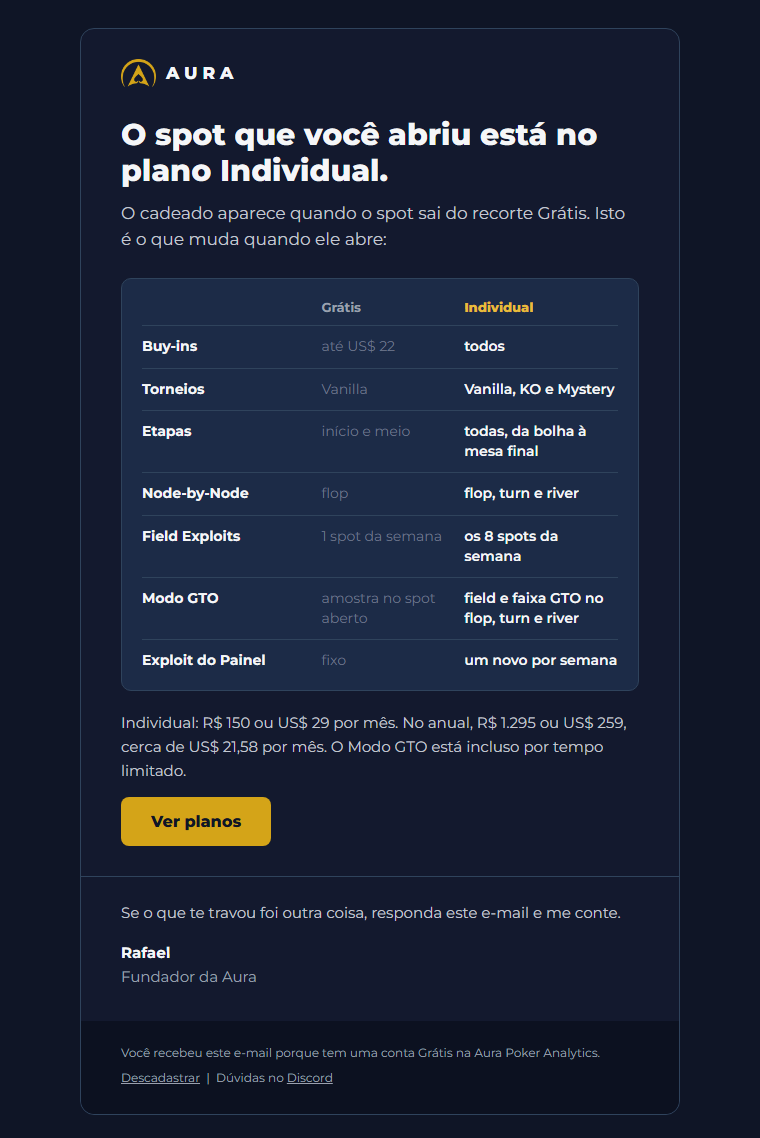
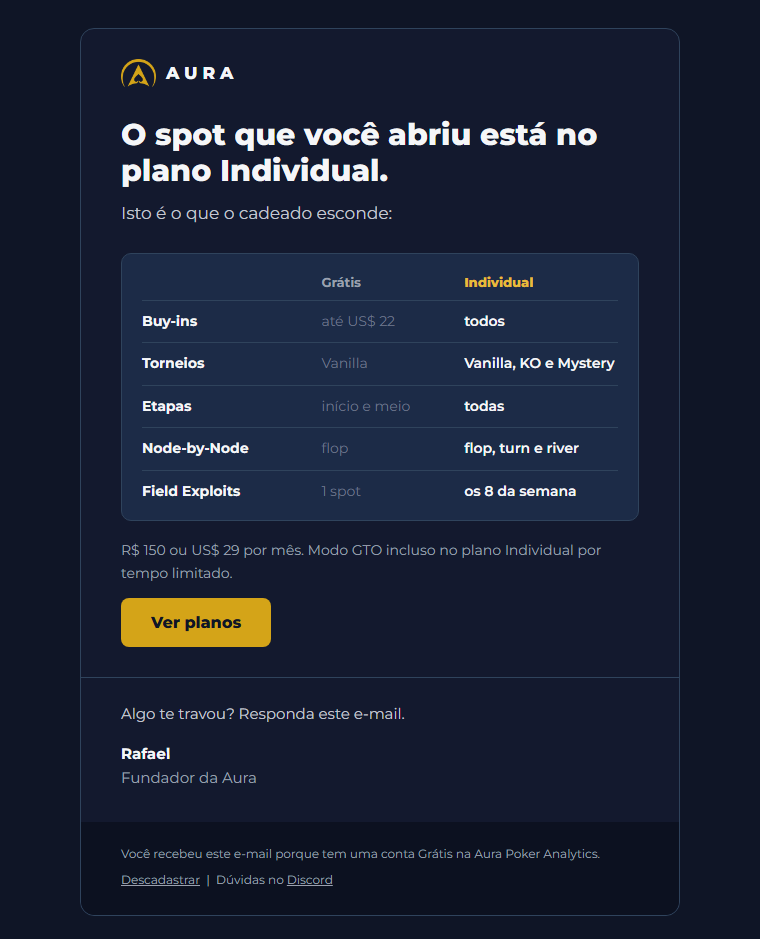
fix(followup): e-mails enxutos (título, 1 frase e a peça visual) e prints refeitos

diff --git a/content/email/followup-u1-paywall.html b/content/email/followup-u1-paywall.html
@@ -31,8 +31,8 @@
 <td style="vertical-align:middle; font-family:Montserrat,Arial,Helvetica,sans-serif; font-size:17px; font-weight:800; letter-spacing:5px; color:#F5F6F8;">AURA</td>
 </tr></table></td></tr>
 <tr><td class="px" style="padding:30px 40px 26px 40px;"><h1 class="h1" style="margin:0; font-family:Montserrat,Arial,Helvetica,sans-serif; font-size:30px; line-height:36px; font-weight:800; color:#F5F6F8;">O spot que você abriu está no plano Individual.</h1>
-<p style="margin:12px 0 0 0; font-family:Montserrat,Arial,Helvetica,sans-serif; font-size:17px; line-height:1.5; color:#C3C7D1;">O cadeado aparece quando o spot sai do recorte Grátis. Isto é o que muda quando ele abre:</p></td></tr>
-<tr><td class="px" style="padding:0 40px 20px 40px;"><table role="presentation" width="100%" cellpadding="0" cellspacing="0" border="0" style="background-color:#1C2B47; border:1px solid #2F435C; border-radius:10px;">
+<p style="margin:12px 0 0 0; font-family:Montserrat,Arial,Helvetica,sans-serif; font-size:17px; line-height:1.5; color:#C3C7D1;">Isto é o que o cadeado esconde:</p></td></tr>
+<tr><td class="px" style="padding:0 40px 18px 40px;"><table role="presentation" width="100%" cellpadding="0" cellspacing="0" border="0" style="background-color:#1C2B47; border:1px solid #2F435C; border-radius:10px;">
 <tr><td style="padding:6px 20px 8px 20px;"><table role="presentation" width="100%" cellpadding="0" cellspacing="0" border="0"><tr>
   <td style="padding:14px 0 10px 0; font-family:Montserrat,Arial,Helvetica,sans-serif; font-size:12px; color:#9AA0AE;">&nbsp;</td>
   <td width="30%" style="padding:14px 8px 10px 8px; font-family:Montserrat,Arial,Helvetica,sans-serif; font-size:13px; font-weight:700; color:#9AA0AE;">Grátis</td>
@@ -45,25 +45,19 @@
   <td valign="top" style="padding:11px 0 11px 8px; border-top:1px solid #2F435C; font-family:Montserrat,Arial,Helvetica,sans-serif; font-size:14px; font-weight:600; line-height:1.4; color:#F5F6F8;">Vanilla, KO e Mystery</td></tr><tr>
   <td valign="top" style="padding:11px 0; border-top:1px solid #2F435C; font-family:Montserrat,Arial,Helvetica,sans-serif; font-size:14px; font-weight:700; line-height:1.4; color:#F5F6F8;">Etapas</td>
   <td valign="top" style="padding:11px 8px; border-top:1px solid #2F435C; font-family:Montserrat,Arial,Helvetica,sans-serif; font-size:14px; line-height:1.4; color:#6B7489;">início e meio</td>
-  <td valign="top" style="padding:11px 0 11px 8px; border-top:1px solid #2F435C; font-family:Montserrat,Arial,Helvetica,sans-serif; font-size:14px; font-weight:600; line-height:1.4; color:#F5F6F8;">todas, da bolha à mesa final</td></tr><tr>
+  <td valign="top" style="padding:11px 0 11px 8px; border-top:1px solid #2F435C; font-family:Montserrat,Arial,Helvetica,sans-serif; font-size:14px; font-weight:600; line-height:1.4; color:#F5F6F8;">todas</td></tr><tr>
   <td valign="top" style="padding:11px 0; border-top:1px solid #2F435C; font-family:Montserrat,Arial,Helvetica,sans-serif; font-size:14px; font-weight:700; line-height:1.4; color:#F5F6F8;">Node-by-Node</td>
   <td valign="top" style="padding:11px 8px; border-top:1px solid #2F435C; font-family:Montserrat,Arial,Helvetica,sans-serif; font-size:14px; line-height:1.4; color:#6B7489;">flop</td>
   <td valign="top" style="padding:11px 0 11px 8px; border-top:1px solid #2F435C; font-family:Montserrat,Arial,Helvetica,sans-serif; font-size:14px; font-weight:600; line-height:1.4; color:#F5F6F8;">flop, turn e river</td></tr><tr>
   <td valign="top" style="padding:11px 0; border-top:1px solid #2F435C; font-family:Montserrat,Arial,Helvetica,sans-serif; font-size:14px; font-weight:700; line-height:1.4; color:#F5F6F8;">Field Exploits</td>
-  <td valign="top" style="padding:11px 8px; border-top:1px solid #2F435C; font-family:Montserrat,Arial,Helvetica,sans-serif; font-size:14px; line-height:1.4; color:#6B7489;">1 spot da semana</td>
-  <td valign="top" style="padding:11px 0 11px 8px; border-top:1px solid #2F435C; font-family:Montserrat,Arial,Helvetica,sans-serif; font-size:14px; font-weight:600; line-height:1.4; color:#F5F6F8;">os 8 spots da semana</td></tr><tr>
-  <td valign="top" style="padding:11px 0; border-top:1px solid #2F435C; font-family:Montserrat,Arial,Helvetica,sans-serif; font-size:14px; font-weight:700; line-height:1.4; color:#F5F6F8;">Modo GTO</td>
-  <td valign="top" style="padding:11px 8px; border-top:1px solid #2F435C; font-family:Montserrat,Arial,Helvetica,sans-serif; font-size:14px; line-height:1.4; color:#6B7489;">amostra no spot aberto</td>
-  <td valign="top" style="padding:11px 0 11px 8px; border-top:1px solid #2F435C; font-family:Montserrat,Arial,Helvetica,sans-serif; font-size:14px; font-weight:600; line-height:1.4; color:#F5F6F8;">field e faixa GTO no flop, turn e river</td></tr><tr>
-  <td valign="top" style="padding:11px 0; border-top:1px solid #2F435C; font-family:Montserrat,Arial,Helvetica,sans-serif; font-size:14px; font-weight:700; line-height:1.4; color:#F5F6F8;">Exploit do Painel</td>
-  <td valign="top" style="padding:11px 8px; border-top:1px solid #2F435C; font-family:Montserrat,Arial,Helvetica,sans-serif; font-size:14px; line-height:1.4; color:#6B7489;">fixo</td>
-  <td valign="top" style="padding:11px 0 11px 8px; border-top:1px solid #2F435C; font-family:Montserrat,Arial,Helvetica,sans-serif; font-size:14px; font-weight:600; line-height:1.4; color:#F5F6F8;">um novo por semana</td></tr></table></td></tr></table></td></tr>
-<tr><td class="px" style="padding:0 40px;"><p style="margin:0 0 8px 0; font-family:Montserrat,Arial,Helvetica,sans-serif; font-size:15px; line-height:1.6; color:#C3C7D1; font-weight:400;">Individual: R$ 150 ou US$ 29 por mês. No anual, R$ 1.295 ou US$ 259, cerca de US$ 21,58 por mês. O Modo GTO está incluso por tempo limitado.</p></td></tr>
+  <td valign="top" style="padding:11px 8px; border-top:1px solid #2F435C; font-family:Montserrat,Arial,Helvetica,sans-serif; font-size:14px; line-height:1.4; color:#6B7489;">1 spot</td>
+  <td valign="top" style="padding:11px 0 11px 8px; border-top:1px solid #2F435C; font-family:Montserrat,Arial,Helvetica,sans-serif; font-size:14px; font-weight:600; line-height:1.4; color:#F5F6F8;">os 8 da semana</td></tr></table></td></tr></table></td></tr>
+<tr><td class="px" style="padding:0 40px;"><p style="margin:0 0 8px 0; font-family:Montserrat,Arial,Helvetica,sans-serif; font-size:14px; line-height:1.6; color:#9AA0AE; font-weight:400;">R$ 150 ou US$ 29 por mês. Modo GTO incluso no plano Individual por tempo limitado.</p></td></tr>
 <tr><td class="px" style="padding:6px 40px 30px 40px;"><table role="presentation" cellpadding="0" cellspacing="0" border="0" class="btn-wrap"><tr>
   <td align="center" bgcolor="#D4A418" style="border-radius:8px; background-color:#D4A418;">
     <a href="https://www.aurapoker.com/?utm_source=email&utm_medium=email&utm_campaign=upgrade&utm_content=u1#planos" class="btn" style="display:inline-block; padding:15px 30px; font-family:Montserrat,Arial,Helvetica,sans-serif; font-size:16px; font-weight:800; line-height:1.2; color:#0F1526; text-decoration:none; border-radius:8px;">Ver planos</a>
   </td></tr></table></td></tr>
-<tr><td class="px" style="padding:24px 40px 32px 40px; border-top:1px solid #2F435C;"><p style="margin:0 0 16px 0; font-family:Montserrat,Arial,Helvetica,sans-serif; font-size:15px; line-height:1.6; color:#C3C7D1; font-weight:400;">Se o que te travou foi outra coisa, responda este e-mail e me conte.</p><p style="margin:0 0 0px 0; font-family:Montserrat,Arial,Helvetica,sans-serif; font-size:15px; line-height:1.6; color:#F5F6F8; font-weight:700;">Rafael<br><span style="color:#9AA0AE; font-weight:400;">Fundador da Aura</span></p></td></tr>
+<tr><td class="px" style="padding:24px 40px 32px 40px; border-top:1px solid #2F435C;"><p style="margin:0 0 16px 0; font-family:Montserrat,Arial,Helvetica,sans-serif; font-size:15px; line-height:1.6; color:#C3C7D1; font-weight:400;">Algo te travou? Responda este e-mail.</p><p style="margin:0 0 0px 0; font-family:Montserrat,Arial,Helvetica,sans-serif; font-size:15px; line-height:1.6; color:#F5F6F8; font-weight:700;">Rafael<br><span style="color:#9AA0AE; font-weight:400;">Fundador da Aura</span></p></td></tr>
 <tr><td class="px" bgcolor="#0F1526" style="padding:22px 40px 26px 40px; background-color:#0C1120; border-radius:0 0 14px 14px;">
 <p style="margin:0 0 6px 0; font-family:Montserrat,Arial,Helvetica,sans-serif; font-size:12px; line-height:1.6; color:#9AA0AE; font-weight:400;">Você recebeu este e-mail porque tem uma conta Grátis na Aura Poker Analytics.</p>
 <p style="margin:0 0 0px 0; font-family:Montserrat,Arial,Helvetica,sans-serif; font-size:12px; line-height:1.6; color:#9AA0AE; font-weight:400;"><a href="mailto:manager@aurapoker.com?subject=Descadastrar" style="color:#9AA0AE; text-decoration:underline;">Descadastrar</a> &nbsp;|&nbsp; Dúvidas no <a href="https://discord.gg/wYquSmUtAK" style="color:#9AA0AE; text-decoration:underline;">Discord</a></p>

diff --git a/content/email/followup-a1-boas-vindas.html b/content/email/followup-a1-boas-vindas.html
@@ -31,36 +31,35 @@
 <td style="vertical-align:middle; font-family:Montserrat,Arial,Helvetica,sans-serif; font-size:17px; font-weight:800; letter-spacing:5px; color:#F5F6F8;">AURA</td>
 </tr></table></td></tr>
 <tr><td class="px" style="padding:30px 40px 26px 40px;"><h1 class="h1" style="margin:0; font-family:Montserrat,Arial,Helvetica,sans-serif; font-size:30px; line-height:36px; font-weight:800; color:#F5F6F8;">Escolha o spot. A Aura mostra o que o field faz ali.</h1>
-<p style="margin:12px 0 0 0; font-family:Montserrat,Arial,Helvetica,sans-serif; font-size:17px; line-height:1.5; color:#C3C7D1;">E onde fica a faixa GTO, ao lado. Sua conta Grátis abre o field de mais de 400 mil torneios, em buy-ins até US$ 22, torneios Vanilla, nas etapas de início e meio.</p></td></tr>
-<tr><td class="px" style="padding:0 40px 22px 40px;"><table role="presentation" width="100%" cellpadding="0" cellspacing="0" border="0" style="background-color:#1C2B47; border:1px solid #2F435C; border-radius:10px;">
-<tr><td style="padding:16px 20px 12px 20px; border-bottom:1px solid #2F435C; font-family:Montserrat,Arial,Helvetica,sans-serif; font-size:14px; font-weight:700; color:#F5F6F8;">Seu primeiro spot em três passos</td></tr><tr><td style="padding:6px 20px 8px 20px;"><table role="presentation" width="100%" cellpadding="0" cellspacing="0" border="0"><tr>
+<p style="margin:12px 0 0 0; font-family:Montserrat,Arial,Helvetica,sans-serif; font-size:17px; line-height:1.5; color:#C3C7D1;">E onde fica a faixa GTO. Comece pelo spot aberto no seu Grátis:</p></td></tr>
+<tr><td class="px" style="padding:0 40px 24px 40px;"><table role="presentation" width="100%" cellpadding="0" cellspacing="0" border="0" style="background-color:#1C2B47; border:1px solid #2F435C; border-radius:10px;">
+<tr><td style="padding:6px 20px 8px 20px;"><table role="presentation" width="100%" cellpadding="0" cellspacing="0" border="0"><tr>
   <td width="44" valign="top" style="padding:14px 0; border-bottom:1px solid #2F435C;">
     <table role="presentation" cellpadding="0" cellspacing="0" border="0"><tr><td align="center" valign="middle" width="30" height="30" style="width:30px; height:30px; border-radius:15px; border:2px solid #D4A418; font-family:Montserrat,Arial,Helvetica,sans-serif; font-size:14px; font-weight:800; color:#E8BC3A;">1</td></tr></table>
   </td>
   <td valign="top" style="padding:14px 0; border-bottom:1px solid #2F435C; font-family:Montserrat,Arial,Helvetica,sans-serif;">
-    <p style="margin:0 0 4px 0; font-size:16px; font-weight:700; line-height:1.4; color:#F5F6F8;">Abra o Postflop no c-bet IP do flop</p>
-    <p style="margin:0; font-size:14px; line-height:1.55; color:#C3C7D1;">Essa reação fica aberta no Grátis, no flop, no turn e no river.</p>
+    <p style="margin:0 0 4px 0; font-size:16px; font-weight:700; line-height:1.4; color:#F5F6F8;">Abra o c-bet IP do flop no Postflop</p>
+    <p style="margin:0; font-size:14px; line-height:1.55; color:#C3C7D1;">A reação é livre no Grátis.</p>
   </td></tr><tr>
   <td width="44" valign="top" style="padding:14px 0; border-bottom:1px solid #2F435C;">
     <table role="presentation" cellpadding="0" cellspacing="0" border="0"><tr><td align="center" valign="middle" width="30" height="30" style="width:30px; height:30px; border-radius:15px; border:2px solid #D4A418; font-family:Montserrat,Arial,Helvetica,sans-serif; font-size:14px; font-weight:800; color:#E8BC3A;">2</td></tr></table>
   </td>
   <td valign="top" style="padding:14px 0; border-bottom:1px solid #2F435C; font-family:Montserrat,Arial,Helvetica,sans-serif;">
-    <p style="margin:0 0 4px 0; font-size:16px; font-weight:700; line-height:1.4; color:#F5F6F8;">Vá ao spot aberto: BTN vs BB, single raised pot, 30 a 60 big blinds</p>
-    <p style="margin:0; font-size:14px; line-height:1.55; color:#C3C7D1;">Nele você vê quanto o field folda para cada size, com a faixa GTO ao lado.</p>
+    <p style="margin:0 0 4px 0; font-size:16px; font-weight:700; line-height:1.4; color:#F5F6F8;">Vá ao BTN vs BB, 30 a 60 big blinds</p>
+    <p style="margin:0; font-size:14px; line-height:1.55; color:#C3C7D1;">Veja o fold do field por size, com a faixa GTO.</p>
   </td></tr><tr>
   <td width="44" valign="top" style="padding:14px 0; ">
     <table role="presentation" cellpadding="0" cellspacing="0" border="0"><tr><td align="center" valign="middle" width="30" height="30" style="width:30px; height:30px; border-radius:15px; border:2px solid #D4A418; font-family:Montserrat,Arial,Helvetica,sans-serif; font-size:14px; font-weight:800; color:#E8BC3A;">3</td></tr></table>
   </td>
   <td valign="top" style="padding:14px 0;  font-family:Montserrat,Arial,Helvetica,sans-serif;">
-    <p style="margin:0 0 4px 0; font-size:16px; font-weight:700; line-height:1.4; color:#F5F6F8;">Confira no seu board</p>
-    <p style="margin:0; font-size:14px; line-height:1.55; color:#C3C7D1;">Filtre a textura do flop e veja se o número se mantém.</p>
+    <p style="margin:0 0 4px 0; font-size:16px; font-weight:700; line-height:1.4; color:#F5F6F8;">Filtre a textura do flop</p>
+    <p style="margin:0; font-size:14px; line-height:1.55; color:#C3C7D1;">Confira se o número se mantém no seu board.</p>
   </td></tr></table></td></tr></table></td></tr>
-<tr><td class="px" style="padding:0 40px;"><p style="margin:0 0 8px 0; font-family:Montserrat,Arial,Helvetica,sans-serif; font-size:16px; line-height:1.6; color:#C3C7D1; font-weight:400;">Depois, passe no <strong style="color:#F5F6F8;">Field Exploits</strong>. Toda semana, um dos 8 spots do plano Individual fica aberto no Grátis, inteiro: o número do field, o do GTO e como explorar.</p></td></tr>
 <tr><td class="px" style="padding:6px 40px 30px 40px;"><table role="presentation" cellpadding="0" cellspacing="0" border="0" class="btn-wrap"><tr>
   <td align="center" bgcolor="#D4A418" style="border-radius:8px; background-color:#D4A418;">
     <a href="https://www.aurapoker.com/?utm_source=email&utm_medium=email&utm_campaign=ativacao&utm_content=a1" class="btn" style="display:inline-block; padding:15px 30px; font-family:Montserrat,Arial,Helvetica,sans-serif; font-size:16px; font-weight:800; line-height:1.2; color:#0F1526; text-decoration:none; border-radius:8px;">Abrir meu primeiro spot</a>
   </td></tr></table></td></tr>
-<tr><td class="px" style="padding:24px 40px 32px 40px; border-top:1px solid #2F435C;"><p style="margin:0 0 16px 0; font-family:Montserrat,Arial,Helvetica,sans-serif; font-size:15px; line-height:1.6; color:#C3C7D1; font-weight:400;">Uma pergunta: qual buy-in você mais joga, e o que você estuda hoje? Responda este e-mail com uma linha. Eu leio todas.</p><p style="margin:0 0 0px 0; font-family:Montserrat,Arial,Helvetica,sans-serif; font-size:15px; line-height:1.6; color:#F5F6F8; font-weight:700;">Rafael<br><span style="color:#9AA0AE; font-weight:400;">Fundador da Aura</span></p></td></tr>
+<tr><td class="px" style="padding:24px 40px 32px 40px; border-top:1px solid #2F435C;"><p style="margin:0 0 16px 0; font-family:Montserrat,Arial,Helvetica,sans-serif; font-size:15px; line-height:1.6; color:#C3C7D1; font-weight:400;">Qual buy-in você mais joga? Responda com uma linha.</p><p style="margin:0 0 0px 0; font-family:Montserrat,Arial,Helvetica,sans-serif; font-size:15px; line-height:1.6; color:#F5F6F8; font-weight:700;">Rafael<br><span style="color:#9AA0AE; font-weight:400;">Fundador da Aura</span></p></td></tr>
 <tr><td class="px" bgcolor="#0F1526" style="padding:22px 40px 26px 40px; background-color:#0C1120; border-radius:0 0 14px 14px;">
 <p style="margin:0 0 6px 0; font-family:Montserrat,Arial,Helvetica,sans-serif; font-size:12px; line-height:1.6; color:#9AA0AE; font-weight:400;">Você recebeu este e-mail porque tem uma conta Grátis na Aura Poker Analytics.</p>
 <p style="margin:0 0 0px 0; font-family:Montserrat,Arial,Helvetica,sans-serif; font-size:12px; line-height:1.6; color:#9AA0AE; font-weight:400;"><a href="mailto:manager@aurapoker.com?subject=Descadastrar" style="color:#9AA0AE; text-decoration:underline;">Descadastrar</a> &nbsp;|&nbsp; Dúvidas no <a href="https://discord.gg/wYquSmUtAK" style="color:#9AA0AE; text-decoration:underline;">Discord</a></p>

diff --git a/content/email/followup-r1-reativacao.html b/content/email/followup-r1-reativacao.html
@@ -32,15 +32,7 @@
 </tr></table></td></tr>
 <tr><td class="px" style="padding:30px 40px 26px 40px;"><h1 class="h1" style="margin:0; font-family:Montserrat,Arial,Helvetica,sans-serif; font-size:30px; line-height:36px; font-weight:800; color:#F5F6F8;">A Aura agora mostra o GTO ao lado do field.</h1>
 <p style="margin:12px 0 0 0; font-family:Montserrat,Arial,Helvetica,sans-serif; font-size:17px; line-height:1.5; color:#C3C7D1;">Seu login é o mesmo, e a amostra já está aberta no seu Grátis.</p></td></tr>
-<tr><td class="px" style="padding:0 40px 22px 40px;"><a href="https://www.aurapoker.com/?utm_source=email&utm_medium=email&utm_campaign=reativacao-gratis&utm_content=r1-a-img" style="text-decoration:none;"><img src="https://www.aurapoker.com/email/modo-gto-pt.png" width="520" alt="Modo GTO: fold contra c-bet, field 46,0% e GTO 38,8%, ao lado da grade Field vs GTO do open do SB" style="display:block; width:100%; max-width:520px; height:auto; border:0; border-radius:10px;"></a></td></tr>
-<tr><td class="px" style="padding:0 40px 24px 40px;"><table role="presentation" width="100%" cellpadding="0" cellspacing="0" border="0" style="background-color:#1C2B47; border:1px solid #2F435C; border-radius:10px;">
-<tr><td style="padding:16px 20px 12px 20px; border-bottom:1px solid #2F435C; font-family:Montserrat,Arial,Helvetica,sans-serif; font-size:14px; font-weight:700; color:#F5F6F8;">Os três módulos novos</td></tr><tr><td style="padding:6px 20px 8px 20px;"><table role="presentation" width="100%" cellpadding="0" cellspacing="0" border="0"><tr><td style="padding:13px 0; border-bottom:1px solid #2F435C; font-family:Montserrat,Arial,Helvetica,sans-serif;">
-  <p style="margin:0 0 3px 0; font-size:16px; font-weight:700; color:#F5F6F8;">Modo GTO</p>
-  <p style="margin:0; font-size:14px; line-height:1.55; color:#C3C7D1;">O que o field faz e onde fica a faixa GTO, no flop, turn e river. No Grátis: a amostra no spot aberto do c-bet IP do flop.</p></td></tr><tr><td style="padding:13px 0; border-bottom:1px solid #2F435C; font-family:Montserrat,Arial,Helvetica,sans-serif;">
-  <p style="margin:0 0 3px 0; font-size:16px; font-weight:700; color:#F5F6F8;">Field Ranges</p>
-  <p style="margin:0; font-size:14px; line-height:1.55; color:#C3C7D1;">O range que o field abre e defende, mão a mão, ao lado do GTO. No Grátis: o open do CO e a reação do BB.</p></td></tr><tr><td style="padding:13px 0;  font-family:Montserrat,Arial,Helvetica,sans-serif;">
-  <p style="margin:0 0 3px 0; font-size:16px; font-weight:700; color:#F5F6F8;">Field Exploits</p>
-  <p style="margin:0; font-size:14px; line-height:1.55; color:#C3C7D1;">Os spots em que o field se afasta do GTO, com o exploit de cada um. No Grátis: o spot da semana, inteiro.</p></td></tr></table></td></tr></table></td></tr>
+<tr><td class="px" style="padding:0 40px 24px 40px;"><a href="https://www.aurapoker.com/?utm_source=email&utm_medium=email&utm_campaign=reativacao-gratis&utm_content=r1-a-img" style="text-decoration:none;"><img src="https://www.aurapoker.com/email/modo-gto-pt.png" width="520" alt="Modo GTO: fold contra c-bet, field 46,0% e GTO 38,8%, ao lado da grade Field vs GTO do open do SB" style="display:block; width:100%; max-width:520px; height:auto; border:0; border-radius:10px;"></a></td></tr>
 <tr><td class="px" style="padding:6px 40px 30px 40px;"><table role="presentation" cellpadding="0" cellspacing="0" border="0" class="btn-wrap"><tr>
   <td align="center" bgcolor="#D4A418" style="border-radius:8px; background-color:#D4A418;">
     <a href="https://www.aurapoker.com/?utm_source=email&utm_medium=email&utm_campaign=reativacao-gratis&utm_content=r1-a" class="btn" style="display:inline-block; padding:15px 30px; font-family:Montserrat,Arial,Helvetica,sans-serif; font-size:16px; font-weight:800; line-height:1.2; color:#0F1526; text-decoration:none; border-radius:8px;">Ver a nova Aura</a>

diff --git a/content/email/_template/build_followup.py b/content/email/_template/build_followup.py
@@ -148,18 +148,17 @@ a1 = email(
     title="Sua conta na Aura está pronta: comece pelo c-bet do flop",
     preview="Escolha o spot. A Aura mostra o que o field faz ali e onde fica a faixa GTO.",
     headline="Escolha o spot. A Aura mostra o que o field faz ali.",
-    sub="E onde fica a faixa GTO, ao lado. Sua conta Grátis abre o field de mais de 400 mil torneios, em buy-ins até US$ 22, torneios Vanilla, nas etapas de início e meio.",
+    sub="E onde fica a faixa GTO. Comece pelo spot aberto no seu Grátis:",
     blocks=[
         row(panel(steps([
-            ("Abra o Postflop no c-bet IP do flop", "Essa reação fica aberta no Grátis, no flop, no turn e no river."),
-            ("Vá ao spot aberto: BTN vs BB, single raised pot, 30 a 60 big blinds", "Nele você vê quanto o field folda para cada size, com a faixa GTO ao lado."),
-            ("Confira no seu board", "Filtre a textura do flop e veja se o número se mantém."),
-        ]), title="Seu primeiro spot em três passos"), pad="0 40px 22px 40px"),
-        row(para("Depois, passe no <strong style=\"color:#F5F6F8;\">Field Exploits</strong>. Toda semana, um dos 8 spots do plano Individual fica aberto no Grátis, inteiro: o número do field, o do GTO e como explorar.", mb=8)),
+            ("Abra o c-bet IP do flop no Postflop", "A reação é livre no Grátis."),
+            ("Vá ao BTN vs BB, 30 a 60 big blinds", "Veja o fold do field por size, com a faixa GTO."),
+            ("Filtre a textura do flop", "Confira se o número se mantém no seu board."),
+        ])), pad="0 40px 24px 40px"),
     ],
     cta="Abrir meu primeiro spot",
     cta_url=LANDING.format(c="ativacao", k="a1"),
-    note=para("Uma pergunta: qual buy-in você mais joga, e o que você estuda hoje? Responda este e-mail com uma linha. Eu leio todas.", size=15),
+    note=para("Qual buy-in você mais joga? Responda com uma linha.", size=15),
     unsub=BATCH_UNSUB,
     reason=REASON,
     draft_note="RASCUNHO A1 v2 · segmento S1 (cadastrado sem uso) · lote semanal até a automação · não enviar sem a frase do Rafael · doc §4.1",
@@ -169,22 +168,20 @@ u1 = email(
     title="O spot que você abriu continua do outro lado do cadeado",
     preview="Todos os buy-ins, todas as etapas, turn e river e os 8 spots do Field Exploits.",
     headline="O spot que você abriu está no plano Individual.",
-    sub="O cadeado aparece quando o spot sai do recorte Grátis. Isto é o que muda quando ele abre:",
+    sub="Isto é o que o cadeado esconde:",
     blocks=[
         row(panel(compare([
             ("Buy-ins", "até US$ 22", "todos"),
             ("Torneios", "Vanilla", "Vanilla, KO e Mystery"),
-            ("Etapas", "início e meio", "todas, da bolha à mesa final"),
+            ("Etapas", "início e meio", "todas"),
             ("Node-by-Node", "flop", "flop, turn e river"),
-            ("Field Exploits", "1 spot da semana", "os 8 spots da semana"),
-            ("Modo GTO", "amostra no spot aberto", "field e faixa GTO no flop, turn e river"),
-            ("Exploit do Painel", "fixo", "um novo por semana"),
-        ])), pad="0 40px 20px 40px"),
-        row(para("Individual: R$ 150 ou US$ 29 por mês. No anual, R$ 1.295 ou US$ 259, cerca de US$ 21,58 por mês. O Modo GTO está incluso por tempo limitado.", size=15, mb=8)),
+            ("Field Exploits", "1 spot", "os 8 da semana"),
+        ])), pad="0 40px 18px 40px"),
+        row(para("R$ 150 ou US$ 29 por mês. Modo GTO incluso no plano Individual por tempo limitado.", size=14, color=INK3, mb=8)),
     ],
     cta="Ver planos",
     cta_url=LANDING.format(c="upgrade", k="u1") + "#planos",
-    note=para("Se o que te travou foi outra coisa, responda este e-mail e me conte.", size=15),
+    note=para("Algo te travou? Responda este e-mail.", size=15),
     unsub=BATCH_UNSUB,
     reason=REASON,
     draft_note="RASCUNHO U1 v2 · segmento S3 (Grátis com gate_hit) · até 24 h do gate_hit; lote semanal até a automação · conferir logado no Individual os 8 spots do Field Exploits antes do envio · não enviar sem a frase do Rafael · doc §4.3",
@@ -198,12 +195,7 @@ r1 = email(
     blocks=[
         row(image("https://www.aurapoker.com/email/modo-gto-pt.png",
                   "Modo GTO: fold contra c-bet, field 46,0% e GTO 38,8%, ao lado da grade Field vs GTO do open do SB",
-                  LANDING.format(c="reativacao-gratis", k="r1-a-img")), pad="0 40px 22px 40px"),
-        row(panel(bullets([
-            ("Modo GTO", "O que o field faz e onde fica a faixa GTO, no flop, turn e river. No Grátis: a amostra no spot aberto do c-bet IP do flop."),
-            ("Field Ranges", "O range que o field abre e defende, mão a mão, ao lado do GTO. No Grátis: o open do CO e a reação do BB."),
-            ("Field Exploits", "Os spots em que o field se afasta do GTO, com o exploit de cada um. No Grátis: o spot da semana, inteiro."),
-        ]), title="Os três módulos novos"), pad="0 40px 24px 40px"),
+                  LANDING.format(c="reativacao-gratis", k="r1-a-img")), pad="0 40px 24px 40px"),
     ],
     cta="Ver a nova Aura",
     cta_url=LANDING.format(c="reativacao-gratis", k="r1-a"),

diff --git a/docs/00-strategy/followup-cadastrados-gratis.md b/docs/00-strategy/followup-cadastrados-gratis.md
@@ -282,6 +282,7 @@ São os três primeiros da fase 1, um por alavanca (ativação, upgrade, reativa
 **Template v2 (rodada 2, 23/10).** O Rafael achou o template antigo "horrível". O novo é gerado por `content/email/_template/build_followup.py` (`python -I content/email/_template/build_followup.py`); os HTML não se editam à mão.
 - **Identidade:** a paleta dark da landing (`aura-landing/src/styles/globals.css`, `.theme-a`): fundo `#0F1526`, cartão `#13192E`, painel `#1C2B47`, borda `#2F435C`, texto `#F5F6F8` / `#C3C7D1` / `#9AA0AE`, dourado `#D4A418` no botão. Montserrat, a fonte da landing, onde o cliente carrega webfont (Apple Mail, iOS); Arial nos demais.
 - **Uma peça forte por e-mail**, no lugar da lista de ♠: no A1, o caminho de três passos até o primeiro spot; no U1, o quadro Grátis × Individual linha a linha; no R1, a tela do Modo GTO já publicada (`www.aurapoker.com/email/modo-gto-pt.png`).
+- **Pouco texto (corte de 23/10, pedido da HUB no gosto do Rafael):** cada e-mail tem só título, uma frase, a peça visual, o botão e uma linha de pergunta. No A1, cada passo tem um subtítulo de no máximo uma linha. O U1 ficou com 5 linhas no quadro e uma linha de preço. O R1 é título, frase e imagem. A linha "Modo GTO incluso no plano Individual por tempo limitado" repete, palavra por palavra, o que a landing mostra hoje (conferido no ar em 23/10). O parágrafo do Field Exploits saiu do A1; ele fica para o A2.
 - **Compatibilidade:** só tabelas e estilo inline. O `<style>` do head só ajusta o celular (padding, título e botão de largura cheia), e o Outlook o ignora sem quebrar. As imagens vêm de URLs públicas que respondem 200 (conferido em 23/10). Prints feitos no Chrome headless; o de 390 px é de um iframe com 390 px exatos.
 - **Pendente antes do envio:** teste real no Gmail (web e app) e no Outlook, com um envio de teste para um endereço interno (é envio, então só com a frase do Rafael); versão EN; tirar o comentário de rascunho da linha 2.
 
@@ -354,7 +355,7 @@ Sim. O Grátis vê 1 dos 8 spots do Field Exploits do Individual, inteiro: o nú
 | --- | --- | --- | --- |
 | A1 | "O Spot da semana, um dos spots em que o field mais se afasta do GTO, também fica aberto no Grátis" | "Toda semana, um dos 8 spots do plano Individual fica aberto no Grátis, inteiro: o número do field, o do GTO e como explorar" | o spot grátis é o do calendário (`free_week`), não necessariamente o de maior desvio |
 | A1 | "Essa reação fica aberta no Grátis" | "Essa reação fica aberta no Grátis, no flop, no turn e no river" | as ações 1, 4 e 7 estão livres |
-| U1 | sem a linha do Field Exploits (gate G1) | "Field Exploits: 1 spot da semana / os 8 spots da semana" | o Individual já vê os 8 (PRs mesclados em 23/10) |
+| U1 | sem a linha do Field Exploits (gate G1) | "Field Exploits: 1 spot / os 8 da semana" | o Individual já vê os 8 (PRs mesclados em 23/10) |
 | R1 | "o open do CO no Field Ranges" | "o open do CO e a reação do BB", ao lado do GTO | o Grátis vê as duas, com a comparação GTO |
 | §1.3 | "o Individual vê o Grátis no Field Exploits" | "o Individual vê os 8 spots" | mudou com os PRs de 23/10 |
 
